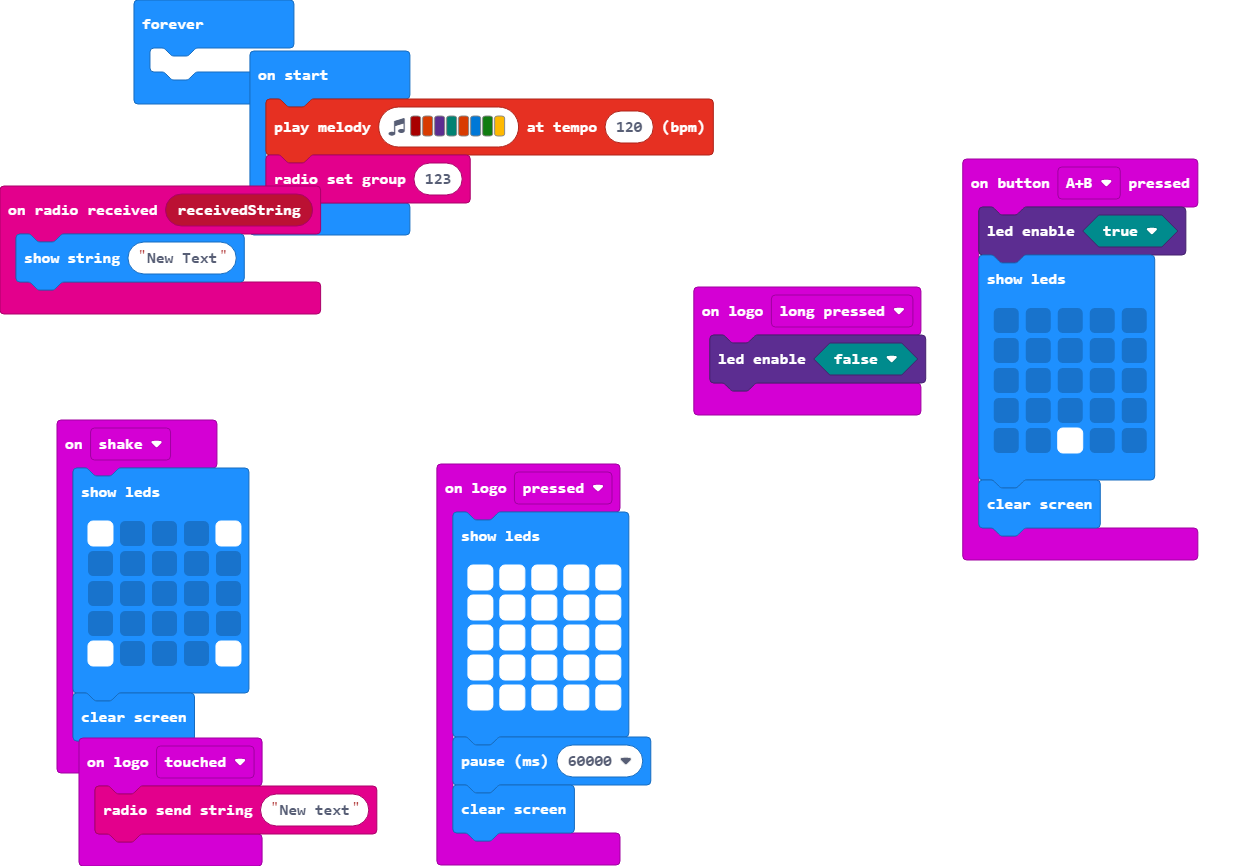
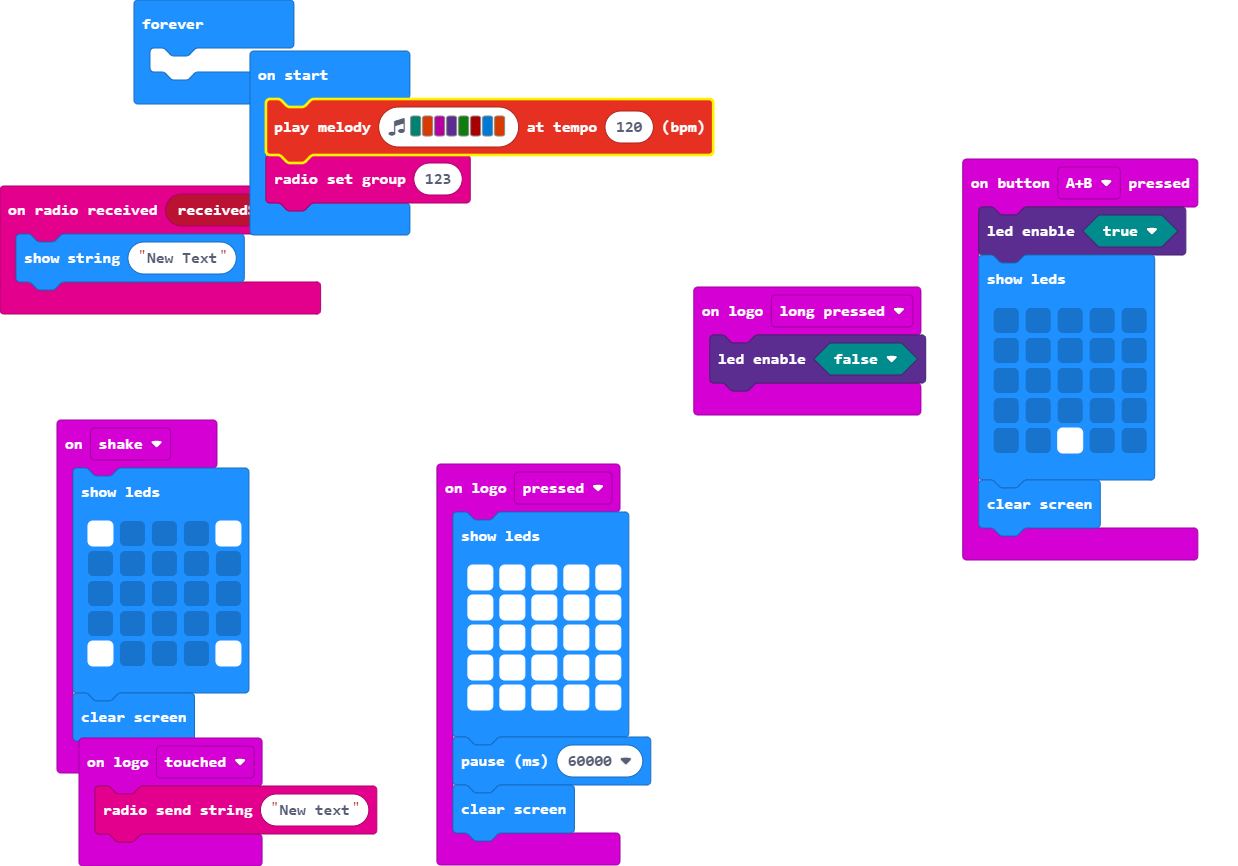
Update main.blocks, main.ts

Changed region(s): [[0.1842, 0.0935, 0.5832, 0.2806]]

diff --git a/main.ts b/main.ts
@@ -39,7 +39,7 @@ input.onLogoEvent(TouchButtonEvent.Pressed, function () {
     basic.pause(60000)
     basic.clearScreen()
 })
-music.playMelody("C5 B D F B E G A ", 120)
+music.playMelody("F B C D G C5 E B ", 120)
 radio.setGroup(123)
 basic.forever(function () {
 	
